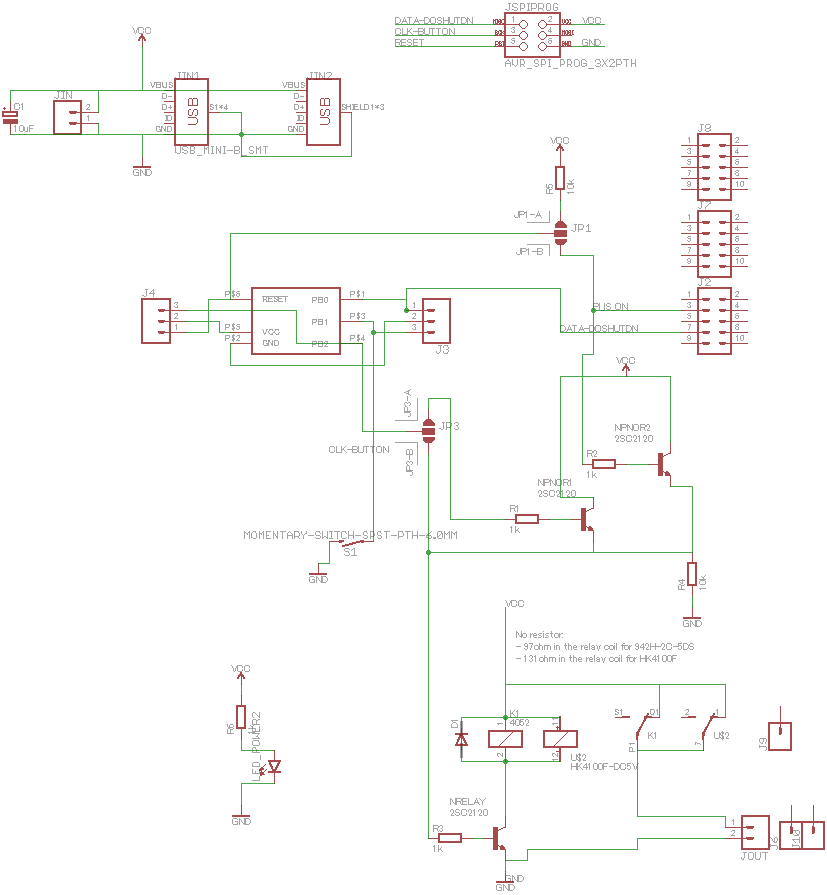
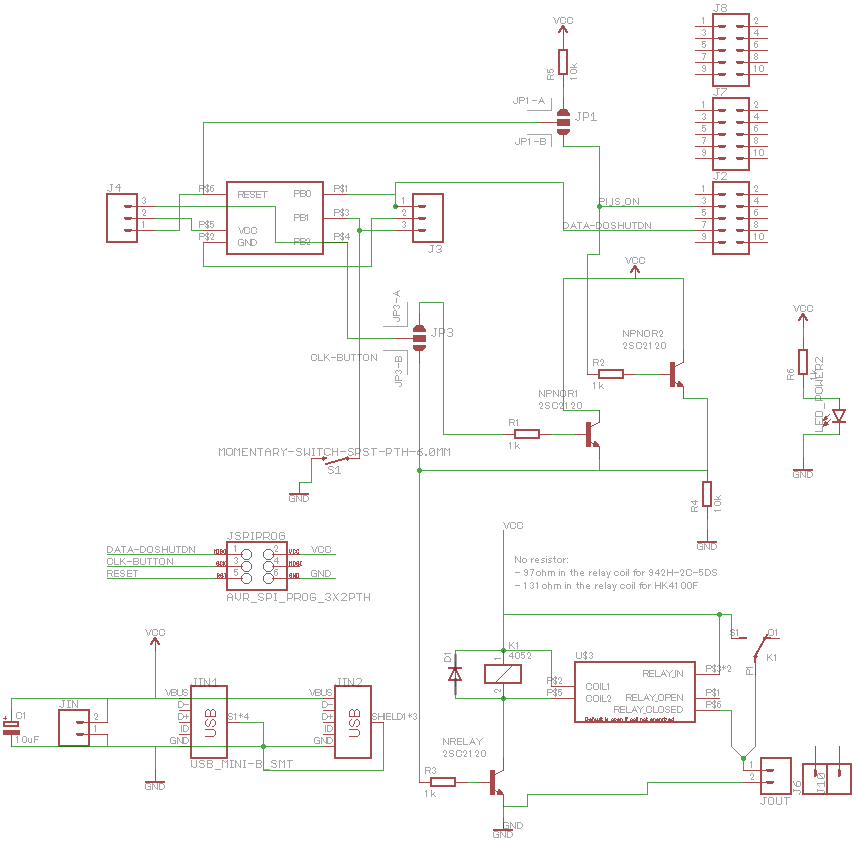
autocommit 2017/10/12@06:06:01

diff --git a/static/japanino.html b/static/japanino.html
@@ -1,0 +1,74 @@
+<img src="/files/japaninologo.gif" width="400" align="right" />I'm the happy owner of a rare **[[http://otonanokagaku.net/japanino/|Japanino]]**.
+
+<h1>Presentation</h1>
+A small minor [[http://otonanokagaku.net/japanino/|Japanese board]], clone of Arduino, and that I bought years ago to support Japan industry.
+<h2>Points of interrest</h2>
+Well it's a rare Arduino clone, with a [[atmega168]] and a 8MHz crystal, and a [[https://www.silabs.com/products/development-tools/software/usb-to-uart-bridge-vcp-drivers|CP210x USB to UART Bridge]].
+<h1>Implementation</h1>
+<h2>Integration in Arduino IDE</h2>
+Edit the <code>\arduino-1.6.13\hardware\arduino\avr\boards.txt</code>:
+<pre>
+##############################################################
+
+atmegang.name=Arduino NG or older
+
+atmegang.upload.tool=avrdude
+atmegang.upload.protocol=arduino
+atmegang.upload.speed=19200
+
+atmegang.bootloader.tool=avrdude
+atmegang.bootloader.unlock_bits=0x3F
+atmegang.bootloader.lock_bits=0x0F
+
+atmegang.build.mcu=atmegang
+atmegang.build.f_cpu=16000000L
+atmegang.build.board=AVR_NG
+atmegang.build.core=arduino
+atmegang.build.variant=standard
+
+## Arduino NG or older w/ ATmega168
+## --------------------------------
+atmegang.menu.cpu.atmega168=ATmega168
+
+atmegang.menu.cpu.atmega168.upload.maximum_size=14336
+atmegang.menu.cpu.atmega168.upload.maximum_data_size=1024
+
+atmegang.menu.cpu.atmega168.bootloader.low_fuses=0xff
+atmegang.menu.cpu.atmega168.bootloader.high_fuses=0xdd
+atmegang.menu.cpu.atmega168.bootloader.extended_fuses=0x00
+atmegang.menu.cpu.atmega168.bootloader.file=atmega/ATmegaBOOT_168_ng.hex
+
+atmegang.menu.cpu.atmega168.build.mcu=atmega168
+
+## Arduino NG or older w/ ATmega8
+## ------------------------------
+atmegang.menu.cpu.atmega8=ATmega8
+
+atmegang.menu.cpu.atmega8.upload.maximum_size=7168
+atmegang.menu.cpu.atmega8.upload.maximum_data_size=1024
+
+atmegang.menu.cpu.atmega8.bootloader.low_fuses=0xdf
+atmegang.menu.cpu.atmega8.bootloader.high_fuses=0xca
+atmegang.menu.cpu.atmega8.bootloader.file=atmega8/ATmegaBOOT-prod-firmware-2009-11-07.hex
+
+atmegang.menu.cpu.atmega8.build.mcu=atmega8
+<span style="color:red;">
+## Japanino Atmega 168 + 8MHz
+## --------------------------------
+atmegang.menu.cpu.japanino=Japanino
+
+atmegang.menu.cpu.japanino.upload.maximum_size=14336
+atmegang.menu.cpu.japanino.upload.maximum_data_size=1024
+
+atmegang.menu.cpu.japanino.bootloader.low_fuses=0xff
+atmegang.menu.cpu.japanino.bootloader.high_fuses=0xdd
+atmegang.menu.cpu.japanino.bootloader.extended_fuses=0x00
+atmegang.menu.cpu.japanino.bootloader.file=atmega/ATmegaBOOT_168_ng.hex
+
+atmegang.menu.cpu.japanino.build.mcu=atmega168
+atmegang.menu.cpu.japanino.build.f_cpu=8000000L
+</span>
+##############################################################
+</pre>
+<h1>Links</h1>
+<h2>Helpful sources</h2>

diff --git a/static/home.html b/static/home.html
@@ -38,6 +38,13 @@
 <!-- ===================================================================== -->
 
 
+<span class="alannews2"><img src="/files/news-avatar.200120.png" alt="news-avatar.200120.png" title="news-avatar.200120.png" style="width: 80px;" /> 2017-10-11 - GPS & Power</span><br />
+After a long work weekend, I finally come back to the world of the living. I did a few things in the few free time I had, half asleep half sleeping:
+* Playing with a [[Arduino and GPS|GPS module]], which in one week worked, stopped working, and then worked again ... (0_0;) well, for 5 bucks you get what you pay for. Will stick it anyway in a clock.
+* My [[RaspiPower]] board arrived: I messed it up a bit, need a few air wires and only one type of Relay is accepted (makes me very happy of having planned it capable of using 2 types). I made a version 1.2 that should fix all issues, but I won't send it in production (at least not now) for I don't need it urgently and the 1.0 is fixable with a trace cut and a couple airwires.
+* Prepare to make my own [[Retropie Arcade controller]] ... or so. Just a Raspi Zero, 2 pads in a box ... just need a nice box.
+<br/>
+
 <span class="alannews2"><img src="/files/news-avatar.200120.png" alt="news-avatar.200120.png" title="news-avatar.200120.png" style="width: 80px;" /> 2017-10-03 - GPS</span><br />
 Playing with [[Arduino and GPS|GPS]].
 <br/>

diff --git a/static/raspipower.html b/static/raspipower.html
@@ -11,7 +11,7 @@ Need to do the following:
 * A trace cuts on the PCB front: there's space, should be ok.
 * Some airwire to connect the incoming USB VCC to the right relay pin as well as the top part of the circuit
 <h3>Version 1.2</h3>
-I skipped the v1.1, this one should work with both relays.
+I skipped the v1.1, this one should work with both relays, and I implemented the HK4100F component in my homemade library.
 <h1>Implementation</h1>
 <h2>Bill of materials</h2>
 <table>
@@ -71,9 +71,10 @@ One idea is that if the script makes //PI_IS_ON// HIGH as long as the Raspi runs
   
 <h2>Source code</h2>
 <h3>Board</h3>
-On [[https://github.com/AlanFromJapan/alanarduinotools/tree/master/eagle/RaspiPower|my GitHub]].
-<h3>ATTiny10 uC</h3>
-TODO
+Source code [https://github.com/AlanFromJapan/alanarduinotools/tree/master/Attiny10/RaspiPower_tiny10|on GitHub]].<br/>
+<h3>ATTiny10 micro-controller</h3>
+On [[https://github.com/AlanFromJapan/alanarduinotools/tree/master/eagle/RaspiPower|my GitHub]] based on [[ATTiny10]] microcontroller.<br/>
+<img src="/files/Raspipower_logic.png" />
 <h1>Pictures</h1>
 <img src="/files/raspipower_top.png" /><br/>
 //Top side of the board//<br/>

diff --git a/static/arduino without arduino.html b/static/arduino without arduino.html
@@ -8,7 +8,15 @@
     <div class="wiki" id="content_view" style="display: block;">
 <object width="800" height="800"><param name="movie" value="http://kalshagar.wikispaces.com/space/showimage/withoutard2.swf" />
 <embed src="http://kalshagar.wikispaces.com/space/showimage/withoutard2.swf" width="800" height="800" /></object><br />
-<ul><li><a class="wiki_link" href="attiny10.html">attiny10</a></li><li><a class="wiki_link" href="attiny13.html">attiny13</a></li><li><a class="wiki_link" href="attiny2313.html">attiny2313</a></li><li><a class="wiki_link" href="atmega328.html">atmega328</a></li><li><a class="wiki_link" href="atmega88.html">atmega88</a></li><li><a class="wiki_link" href="atmega64a.html">atmega64a</a></li></ul>
+<ul>
+<li><a class="wiki_link" href="attiny10.html">attiny10</a></li>
+<li><a class="wiki_link" href="attiny13.html">attiny13</a></li>
+<li><a class="wiki_link" href="attiny2313.html">attiny2313</a></li>
+<li><a class="wiki_link" href="atmega328.html">atmega328</a></li>
+<li><a class="wiki_link" href="atmega88.html">atmega88</a></li>
+<li><a class="wiki_link" href="atmega64a.html">atmega64a</a></li>
+* [[Japanino]]
+</ul>
     </div>
   </body>
 </html>

diff --git a/static/raspi.html b/static/raspi.html
@@ -31,8 +31,8 @@ sudo service minidlna force-reload
 
 <br />
 <h2 id="toc5"><a name="Projects and tips-Raspi file share SAMBA [DONE!]"></a> Raspi file share SAMBA [DONE!] </h2>
-<ul><li><a class="wiki_link_ext" href="http://pihomeserver.wordpress.com/2012/12/09/raspberry-pi-home-server-etape-10-installer-samba/" rel="nofollow">http://pihomeserver.wordpress.com/2012/12/09/raspberry-pi-home-server-etape-10-installer-samba/</a></li></ul>
-
+* [[http://pihomeserver.wordpress.com/2012/12/09/raspberry-pi-home-server-etape-10-installer-samba/]] ← the one I used
+* [[https://eltechs.com/raspberry-pi-nas-guide/]]
 <pre><code class="bash">
 #edit
 sudo vim /etc/samba/smb.conf
